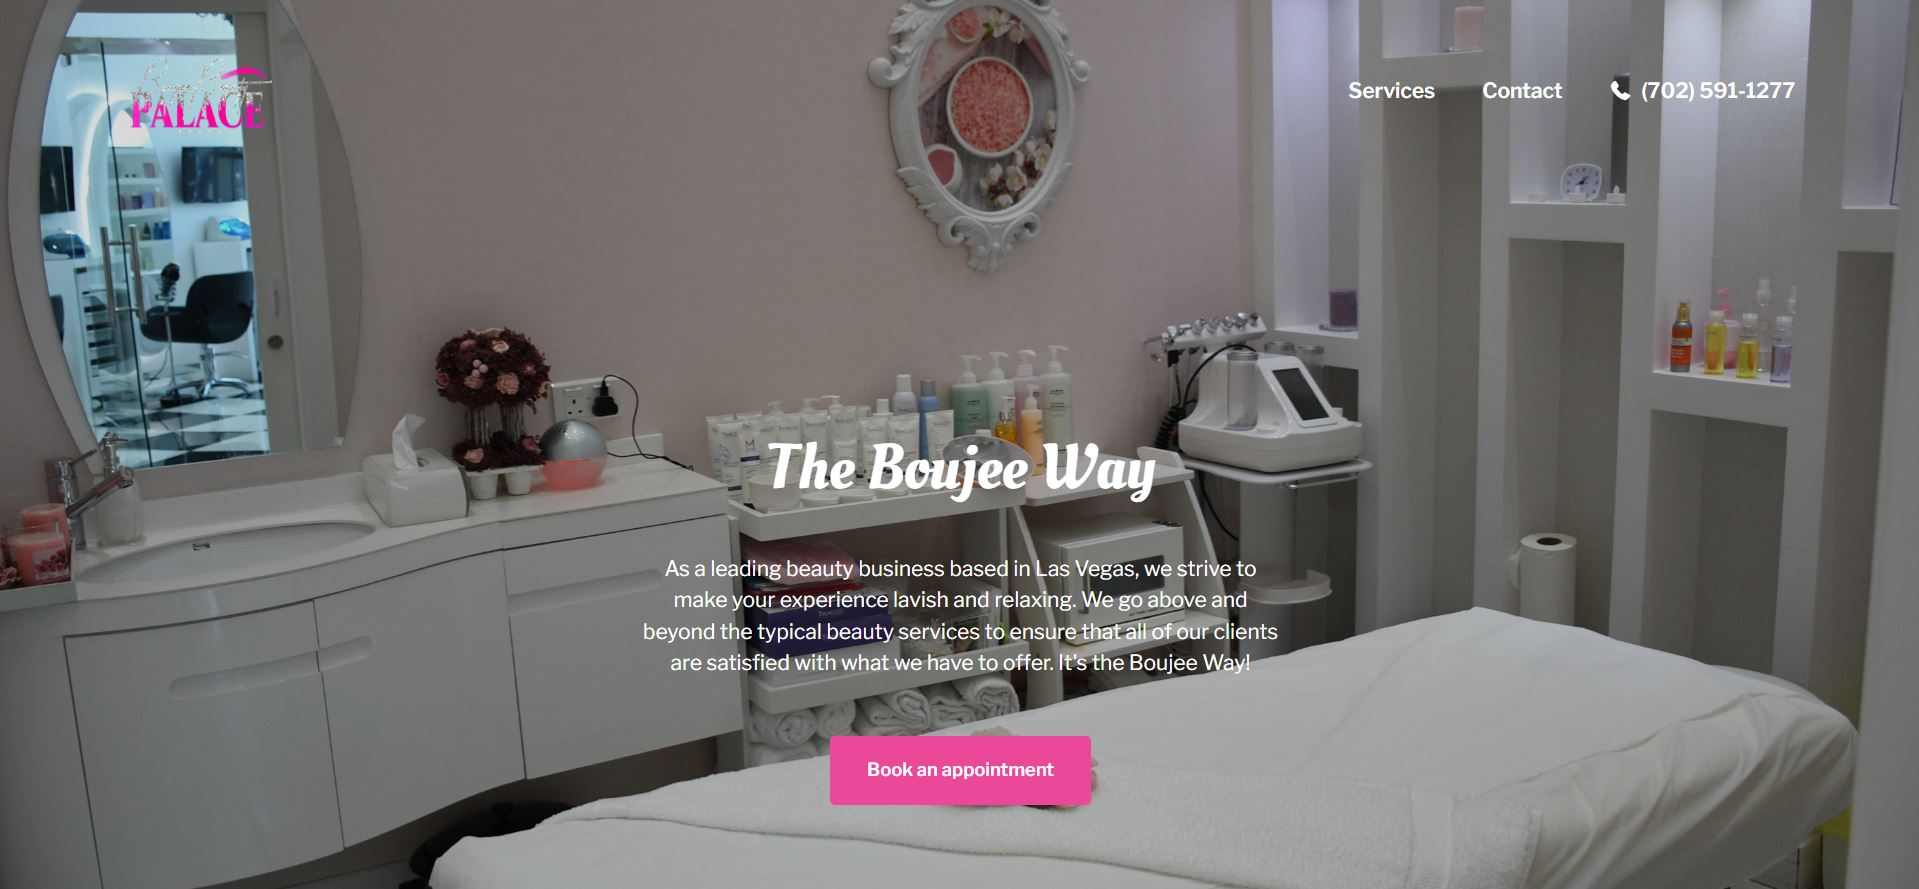
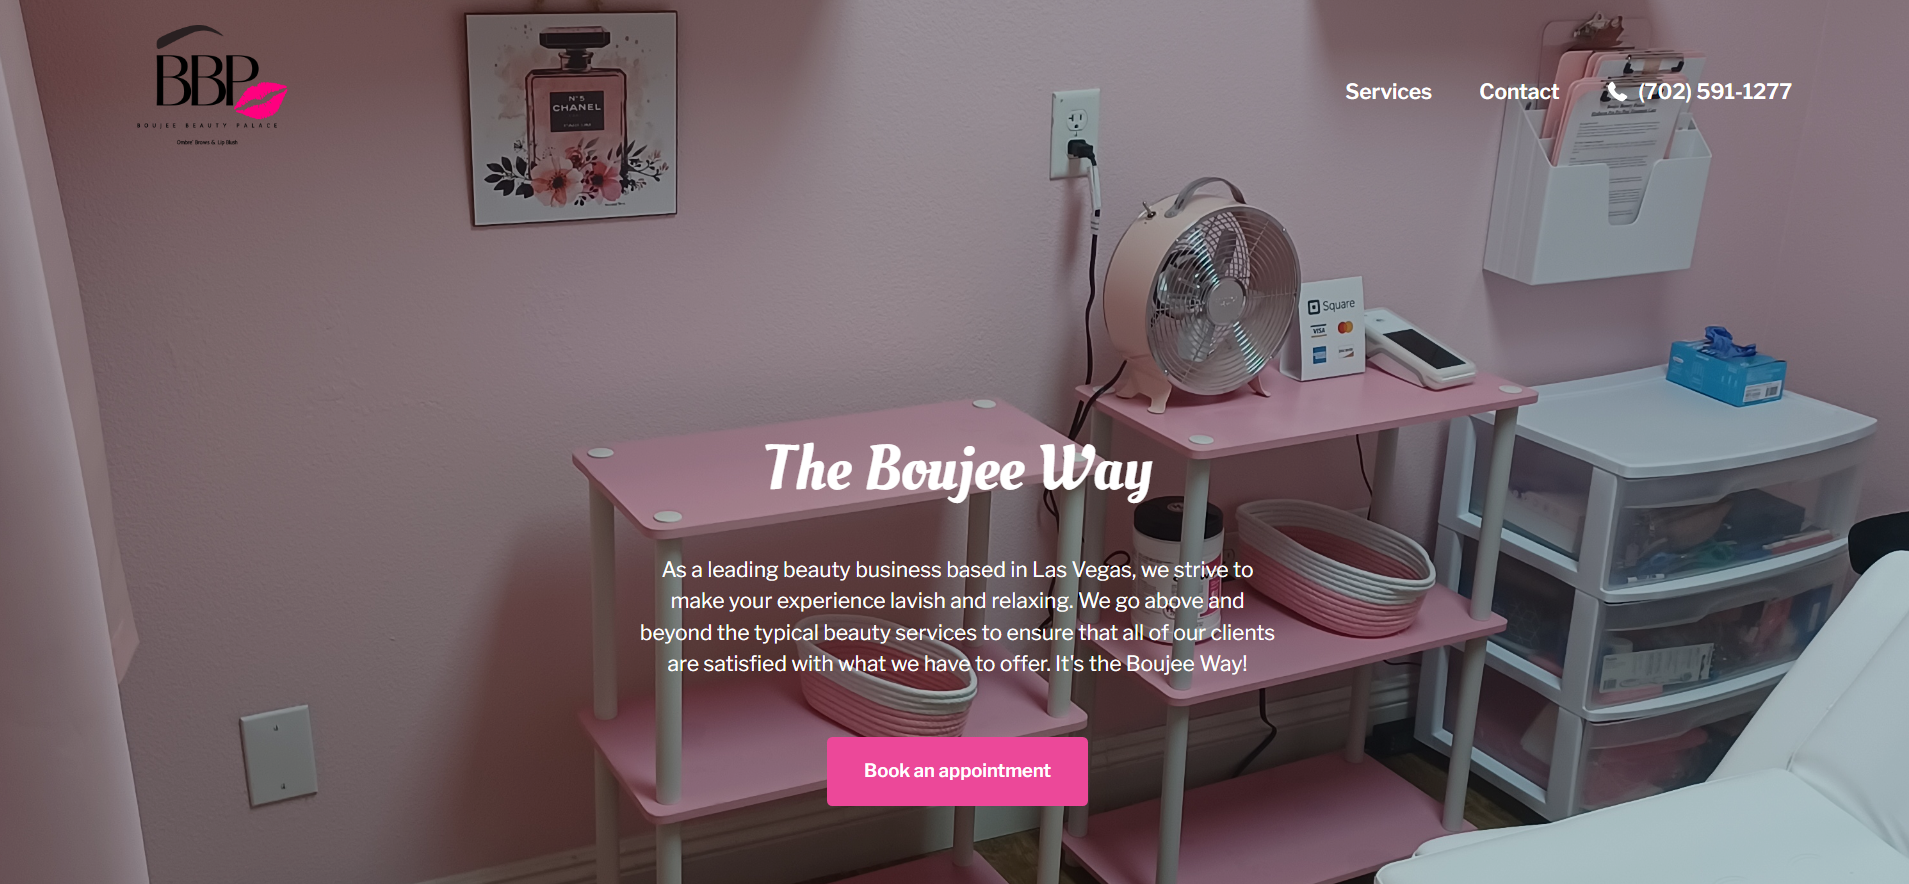
Add new images for boujee beauty palace

diff --git a/pages/services.vue b/pages/services.vue
@@ -60,7 +60,7 @@
       
      
       </div>
-      
+      <!-- <section></section> -->
  
     </section>
 
